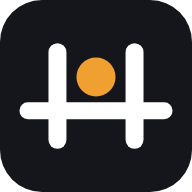
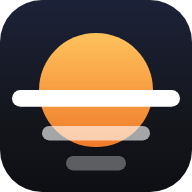
horizonte: new mark — sun on the horizon
Replaces the H mark. Tile: two-tone sun crossed by the horizon with two
fading reflection bars on a dusk gradient; in-app mark is the same geometry
with one bar. Icons, maskable icon and SVG favicon regenerated.

Claude-Session: https://claude.ai/code/session_018irprYnvyXaabyBzSDg5Bn

diff --git a/horizonte/public/app.js b/horizonte/public/app.js
@@ -10,8 +10,8 @@ const store = { get(k, d) { try { const v = localStorage.getItem('hz.' + k); ret
   set(k, v) { try { localStorage.setItem('hz.' + k, JSON.stringify(v)); } catch {} } };
 
 const I = {
-  // Horizonte mark: an H whose crossbar runs out past the stems as a horizon, with the sun resting on it.
-  logo: (s = 22) => `<svg aria-hidden="true" width="${s}" height="${s}" viewBox="0 0 32 32"><rect x="7" y="6" width="3.4" height="20" rx="1.7" fill="currentColor"/><rect x="21.6" y="6" width="3.4" height="20" rx="1.7" fill="currentColor"/><rect x="1.5" y="17.2" width="29" height="3.2" rx="1.6" fill="currentColor"/><circle cx="16" cy="12.4" r="3.7" fill="var(--sun)"/></svg>`,
+  // Horizonte mark: the sun crossed by the horizon, one reflection bar beneath. Same geometry as the app icon.
+  logo: (s = 22) => `<svg aria-hidden="true" width="${s}" height="${s}" viewBox="0 0 32 32"><defs><linearGradient id="hzsun" x1="0" y1="0" x2="0" y2="1"><stop offset="0" stop-color="#FFC25C"/><stop offset="1" stop-color="#F07A2A"/></linearGradient></defs><circle cx="16" cy="14.5" r="8.4" fill="url(#hzsun)"/><rect x="1" y="14.5" width="30" height="2.9" rx="1.45" fill="currentColor"/><rect x="7" y="20.8" width="18" height="2.5" rx="1.25" fill="currentColor" opacity=".55"/></svg>`,
   left: '<svg aria-hidden="true" width="16" height="16" viewBox="0 0 24 24" fill="none" stroke="currentColor" stroke-width="2"><path d="M15 6l-6 6 6 6"/></svg>',
   right: '<svg aria-hidden="true" width="16" height="16" viewBox="0 0 24 24" fill="none" stroke="currentColor" stroke-width="2"><path d="M9 6l6 6-6 6"/></svg>',
   plus: (s = 22, w = 2) => `<svg aria-hidden="true" width="${s}" height="${s}" viewBox="0 0 24 24" fill="none" stroke="currentColor" stroke-width="${w}"><path d="M12 5v14M5 12h14"/></svg>`,

diff --git a/horizonte/public/sw.js b/horizonte/public/sw.js
@@ -1,6 +1,6 @@
 // App shell cache: Horizonte opens with no network. API calls always go to the network.
-const V = 'hz-18';
-const SHELL = ['/', '/app.css?v=18', '/app.js?v=18', '/manifest.webmanifest', '/icon-192.png', '/icon.svg', '/fonts/geist-400.woff2', '/fonts/geist-500.woff2', '/fonts/geist-600.woff2', '/fonts/geist-700.woff2'];
+const V = 'hz-19';
+const SHELL = ['/', '/app.css?v=19', '/app.js?v=19', '/manifest.webmanifest', '/icon-192.png', '/icon.svg', '/fonts/geist-400.woff2', '/fonts/geist-500.woff2', '/fonts/geist-600.woff2', '/fonts/geist-700.woff2'];
 self.addEventListener('install', (e) => { e.waitUntil(caches.open(V).then(c => c.addAll(SHELL)).then(() => self.skipWaiting())); });
 self.addEventListener('activate', (e) => { e.waitUntil(caches.keys().then(ks => Promise.all(ks.filter(k => k !== V).map(k => caches.delete(k)))).then(() => self.clients.claim())); });
 self.addEventListener('fetch', (e) => {

diff --git a/horizonte/public/index.html b/horizonte/public/index.html
@@ -12,10 +12,10 @@
 <link rel="icon" href="/icon-192.png" sizes="192x192">
 <link rel="apple-touch-icon" href="/apple-touch-icon.png">
 <link rel="preload" href="/fonts/geist-400.woff2" as="font" type="font/woff2" crossorigin>
-<link rel="stylesheet" href="/app.css?v=18">
+<link rel="stylesheet" href="/app.css?v=19">
 </head>
 <body>
 <div id="app"></div>
-<script src="/app.js?v=18" type="module"></script>
+<script src="/app.js?v=19" type="module"></script>
 </body>
 </html>
